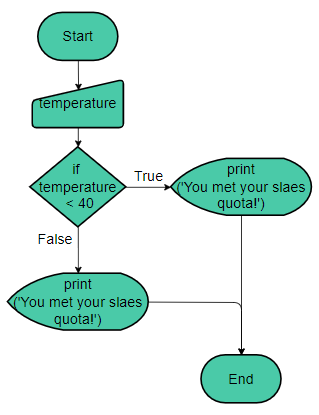
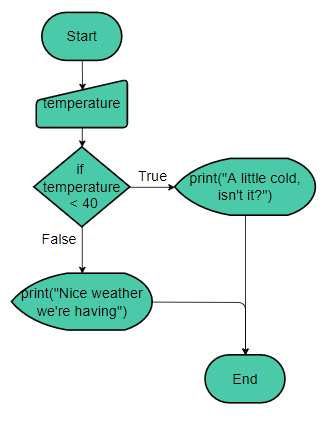
u

Changed region(s): [[0.0282, 0.0289, 0.9875, 0.9831]]

diff --git a/lesson2.html b/lesson2.html
@@ -134,11 +134,13 @@
 										<div style="color: #f33636c7;font-weight: bold;">
 											<span class="tab"></span>
 											<span class="tab"></span>
-											print('Nice weather we're having.')
+											print("Nice weather we're having.")
 										</div>
 									</div>
 									<div>
-										
+										<h4>
+											Flowchart:
+										</h4>
 									</div>
 									<div>
 										<img src="images\ifelseflow.png" style="width: 50%">
@@ -153,43 +155,50 @@
 								</header>
 								<p>
 									<div>
-										<img src="images\ifelseflow.png" style="width: 60%">
+										<h4>
+											Example:
+										</h4>
 									</div>
-									<div>
-										Example:
-									</div>
-									<div style="background-color: #4acaa8;">
-										<div>
+									<div style="background-color: #4acaa8;border-radius: 10px;">
+										<div style="color: #f33636c7;font-weight: bold;">
 											<span class="tab"></span>
 											num = float(input('Enter a number: '))
 										</div>
-										<div>
+										<div style="color: #f33636c7;font-weight: bold;">
 											<span class="tab"></span>
 											if num > 0:
 										</div>
-										<div>
+										<div style="color: #f33636c7;font-weight: bold;">
 											<span class="tab"></span>
 											<span class="tab"></span>
 											print("Positive number")
 										</div>
-										<div>
+										<div style="color: #f33636c7;font-weight: bold;">
 											<span class="tab"></span>
 											elif num == 0:
 										</div>
-										<div>
+										<div style="color: #f33636c7;font-weight: bold;">
 											<span class="tab"></span>
 											<span class="tab"></span>
 											print("Zero")
 										</div>
-										<div>
+										<div style="color: #f33636c7;font-weight: bold;">
 											<span class="tab"></span>
 											else:
 										</div>
-										<div>
+										<div style="color: #f33636c7;font-weight: bold;">
 											<span class="tab"></span>
 											<span class="tab"></span>
 											print("Negative number")
 										</div>
+									</div>
+									<div>
+										<h4>
+											Flowchart:
+										</h4>
+									</div>
+									<div>
+										<img src="images\ifelseflow.png" style="width: 60%">
 									</div>
 								</p>
 							</div>
